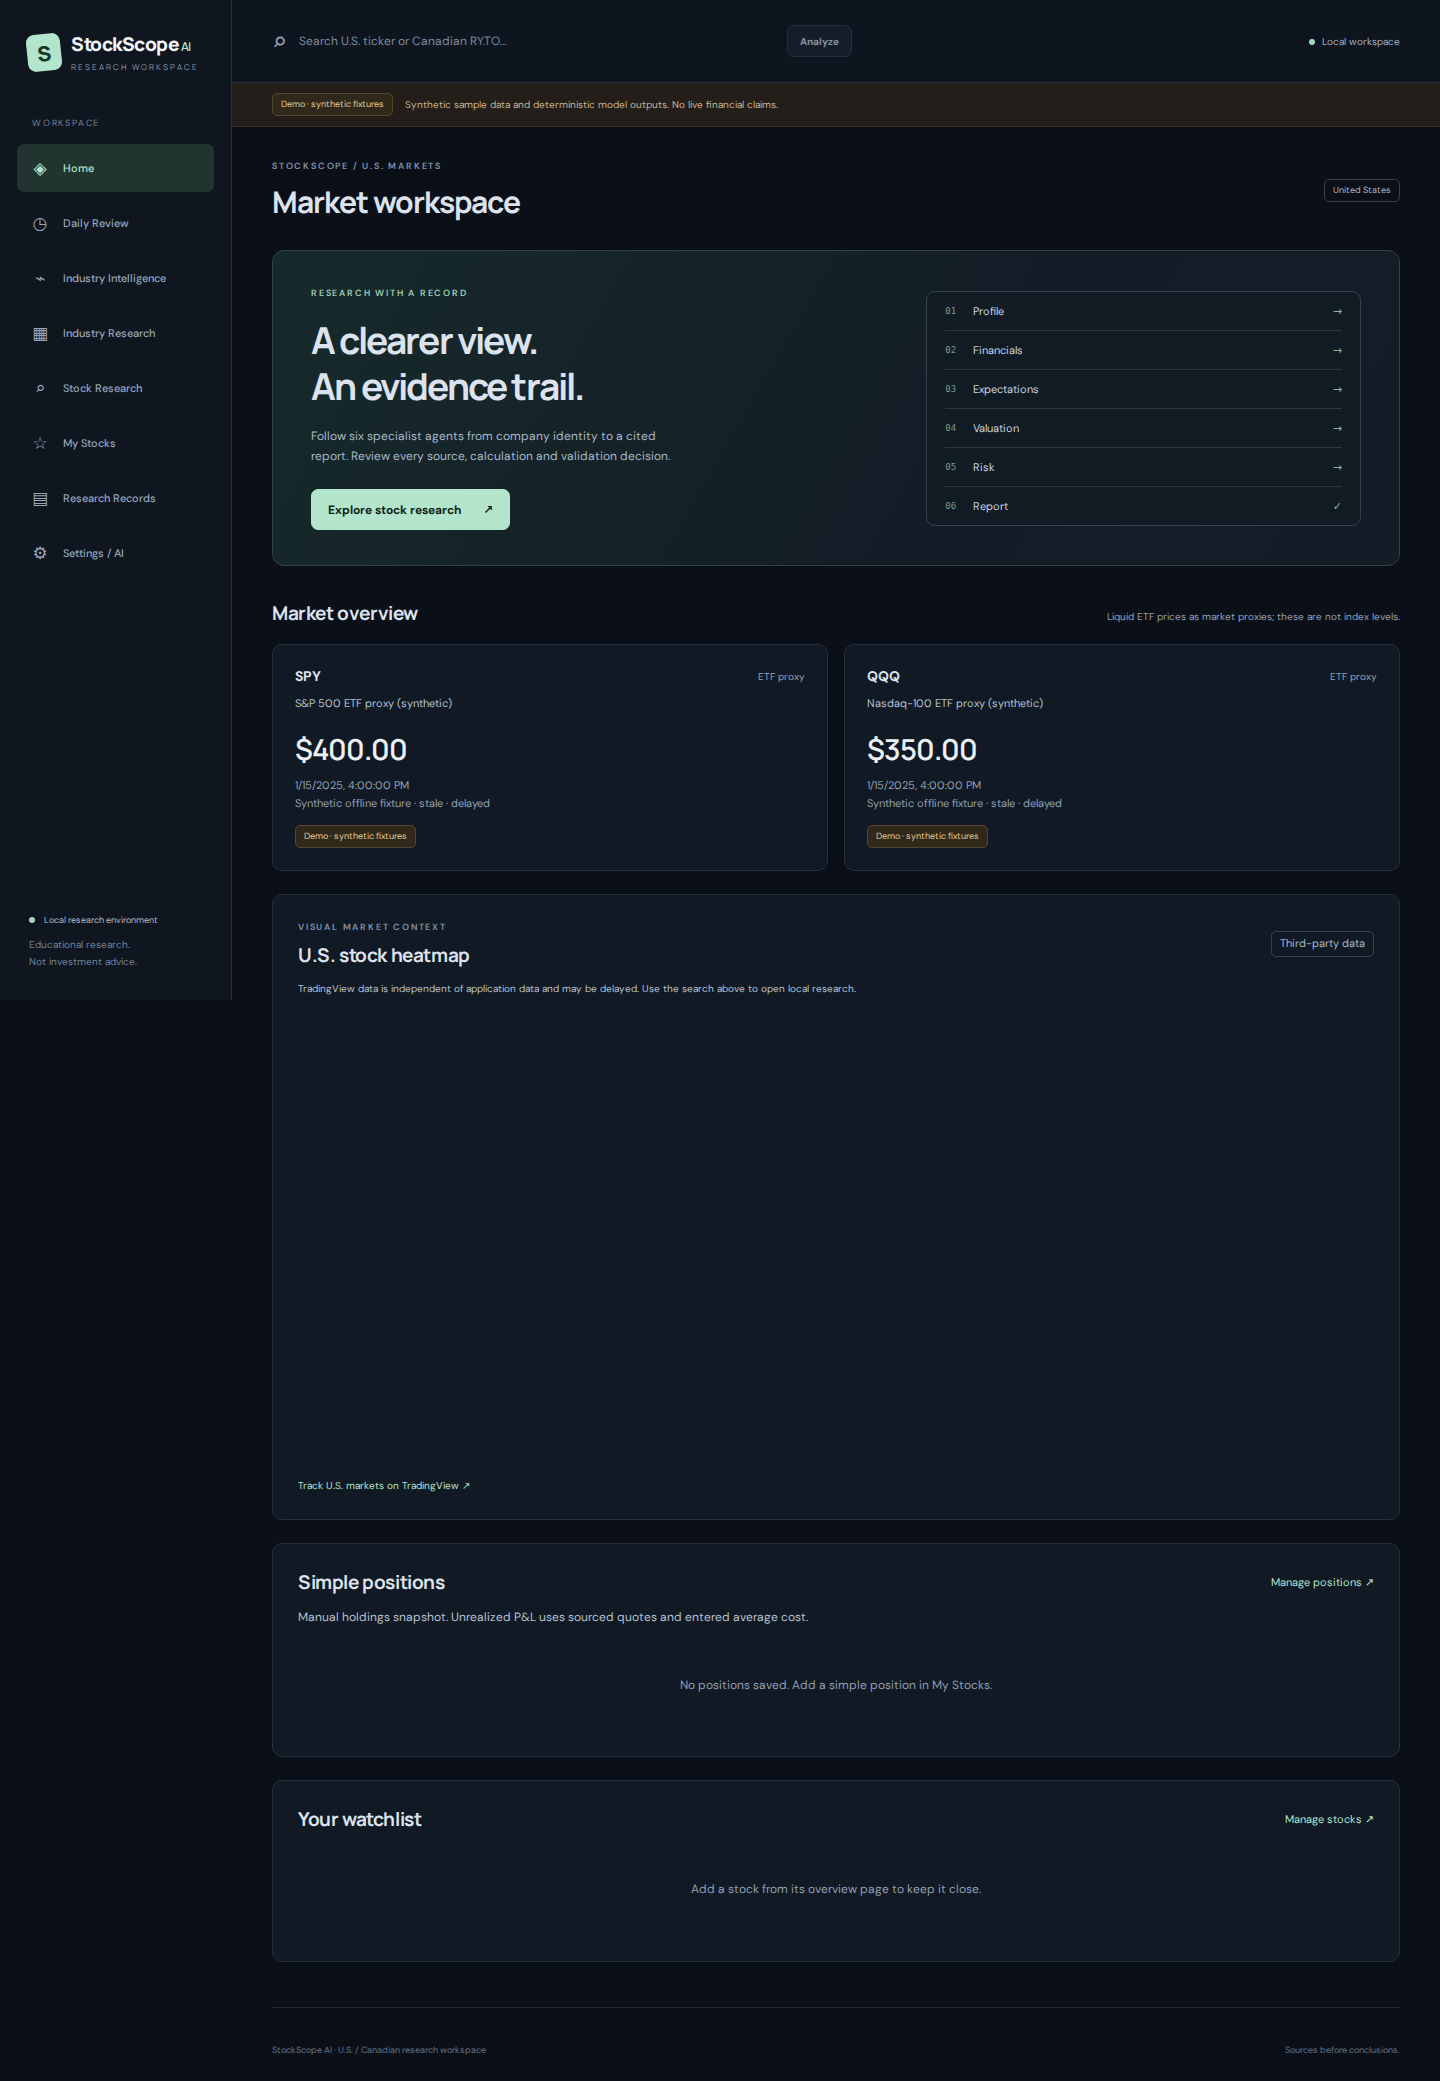
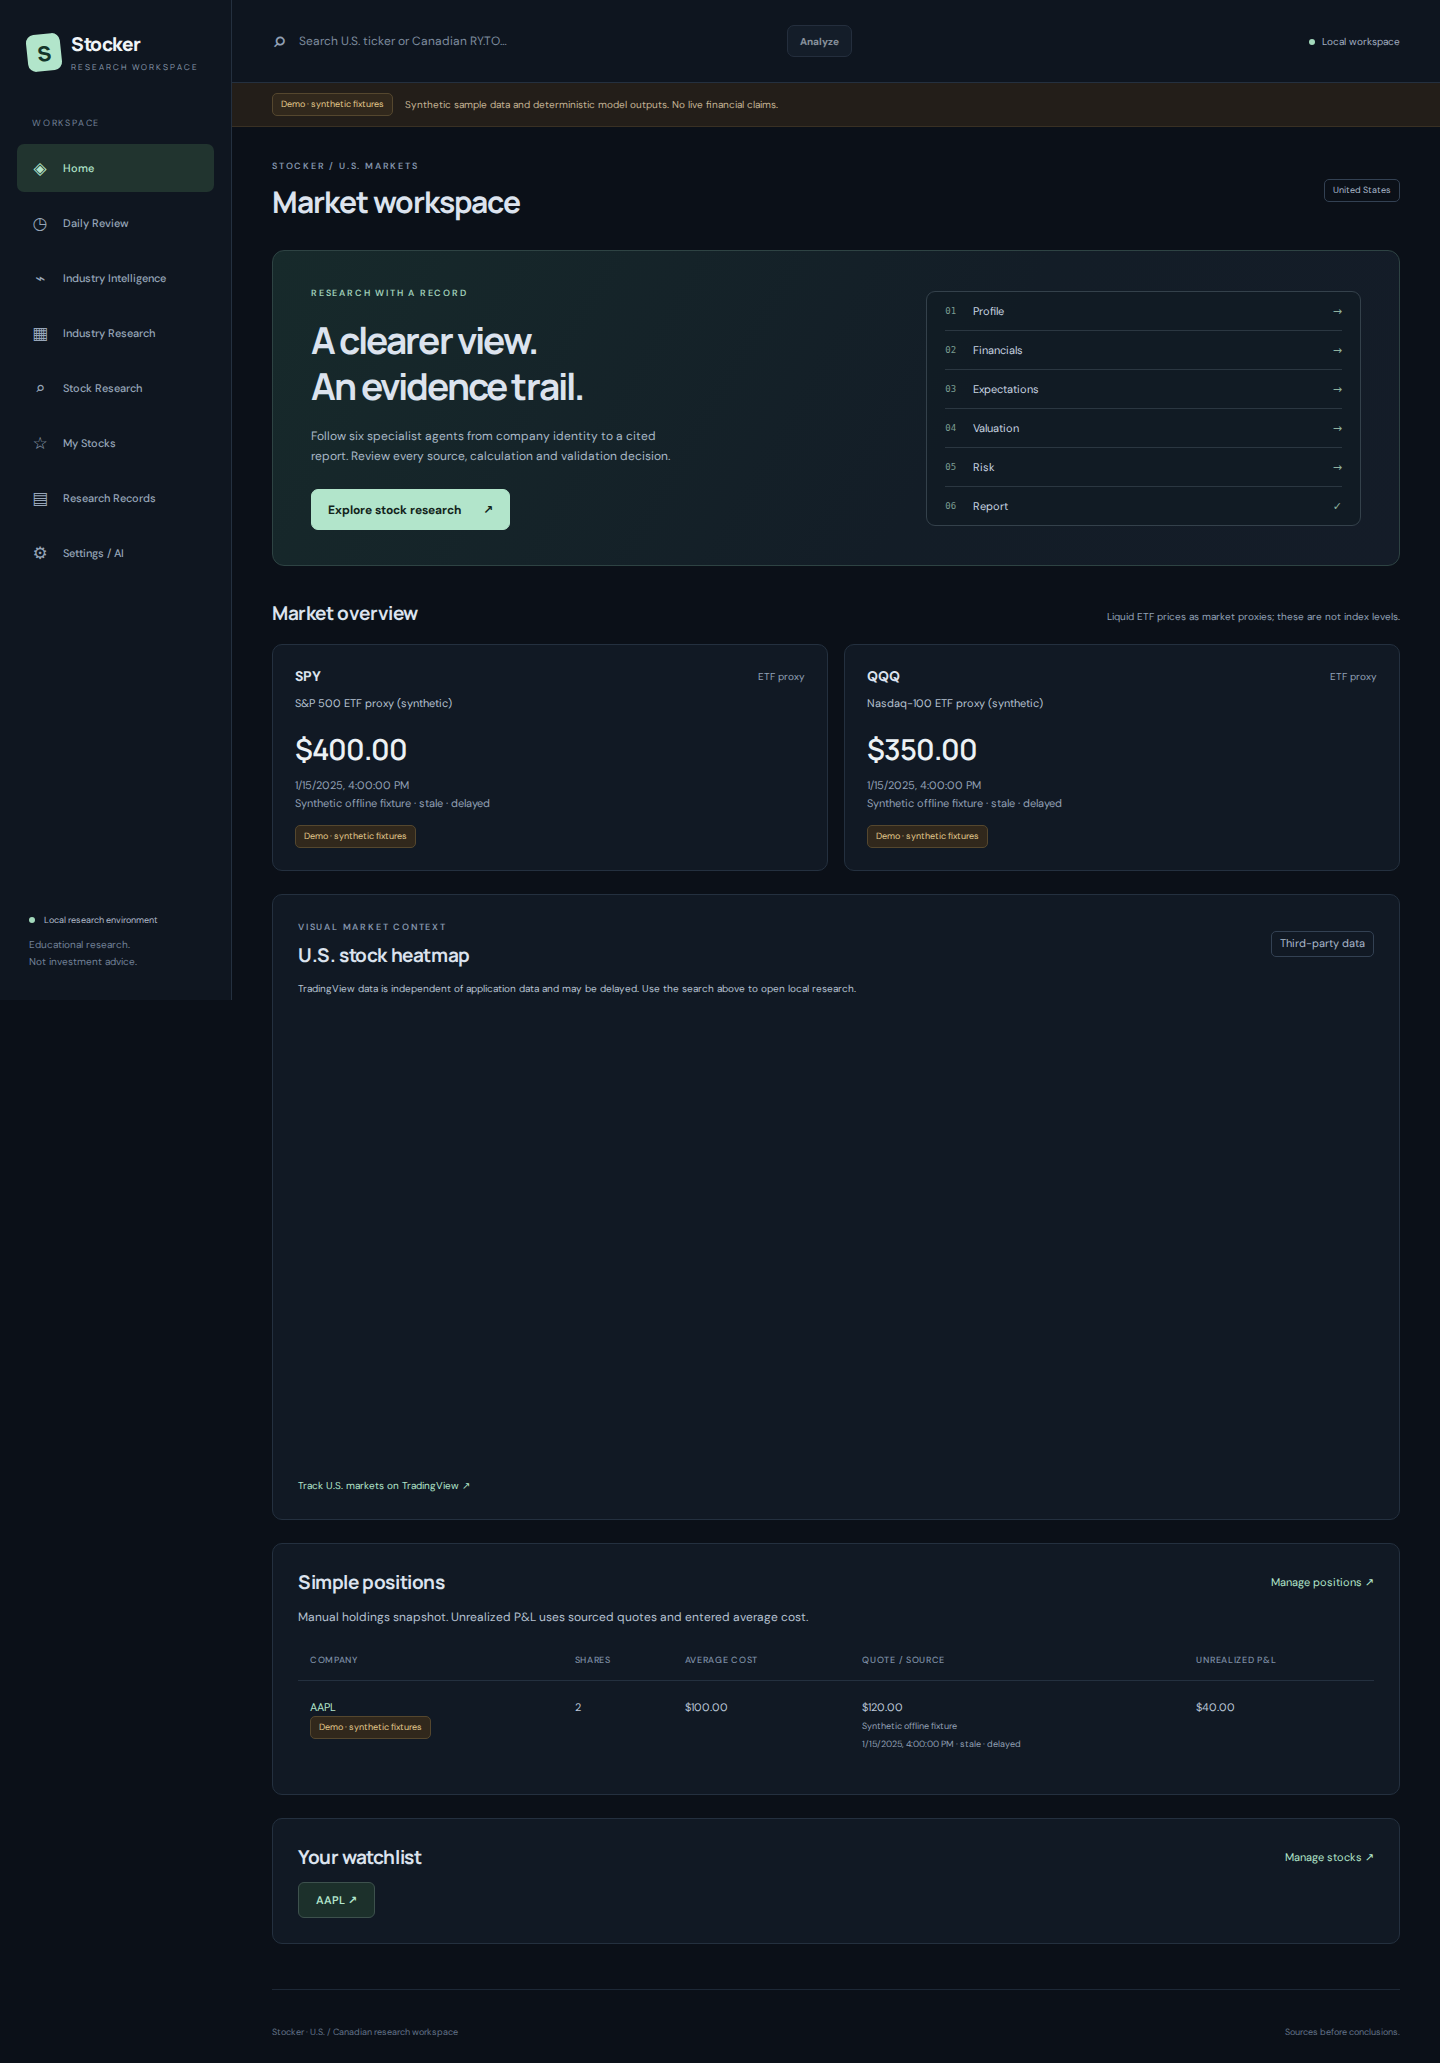
docs: refresh synthetic screenshots with current Stocker branding

diff --git a/docs/DEMO.md b/docs/DEMO.md
@@ -23,6 +23,6 @@ Set DATA_MODE=live; the existing iq3_s endpoint/model/key remain configured serv
 
 With real live headlines and a configured model, Industry Intelligence offers an explicit Summarize headlines action. It summarizes only captured headline text with cited evidence and timestamps; it does not retrieve full articles or start research. Fixture mode never invents news or summary results.
 
-Optional automated walkthrough: `make smoke` with native Playwright/Chromium installed and ports 8000/5173 free; prerequisites are in [development](DEVELOPMENT.md). The existing harness checks loopback servers, restart persistence and widget failure/retry. Retained screenshots are earlier artifacts and may show the previous branding; visual perception was not rerun for this cleanup.
+Optional automated walkthrough: `make smoke` with native Playwright/Chromium installed and ports 8000/5173 free; prerequisites are in [development](DEVELOPMENT.md). The existing harness checks loopback servers, restart persistence and widget failure/retry. The retained screenshots were refreshed from current synthetic fixture pages with Stocker branding. Browser assertions verified the brand text, synthetic labels, mobile overflow and no pageerrors; image perception remains unavailable without the vision tool credential.
 
 Partial Canadian demo: in live mode search the exact listing `RY.TO`, inspect its CAD history and explicit missing statement/quote/identity gaps, and add a CAD position (P&L remains unavailable without a matching sourced quote). Open Industry Intelligence for Bank of Canada FXUSDCAD and V39079 with original observation dates/source links. These features do not establish Canadian-only fundamentals or a licensed current quote feed.
